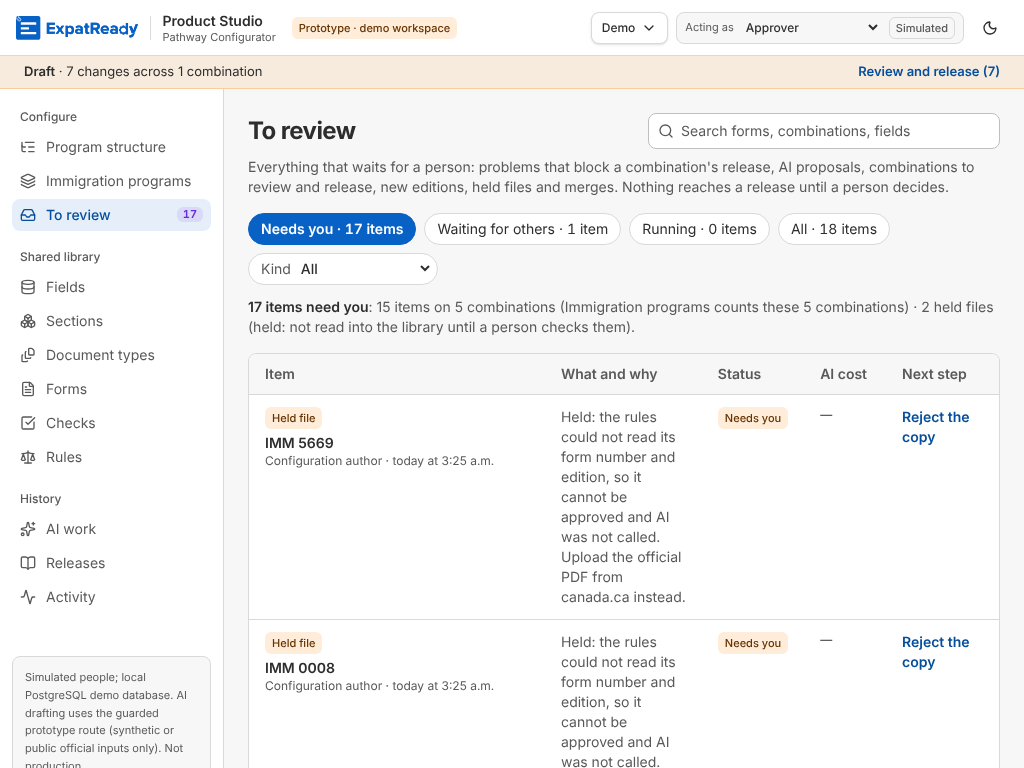
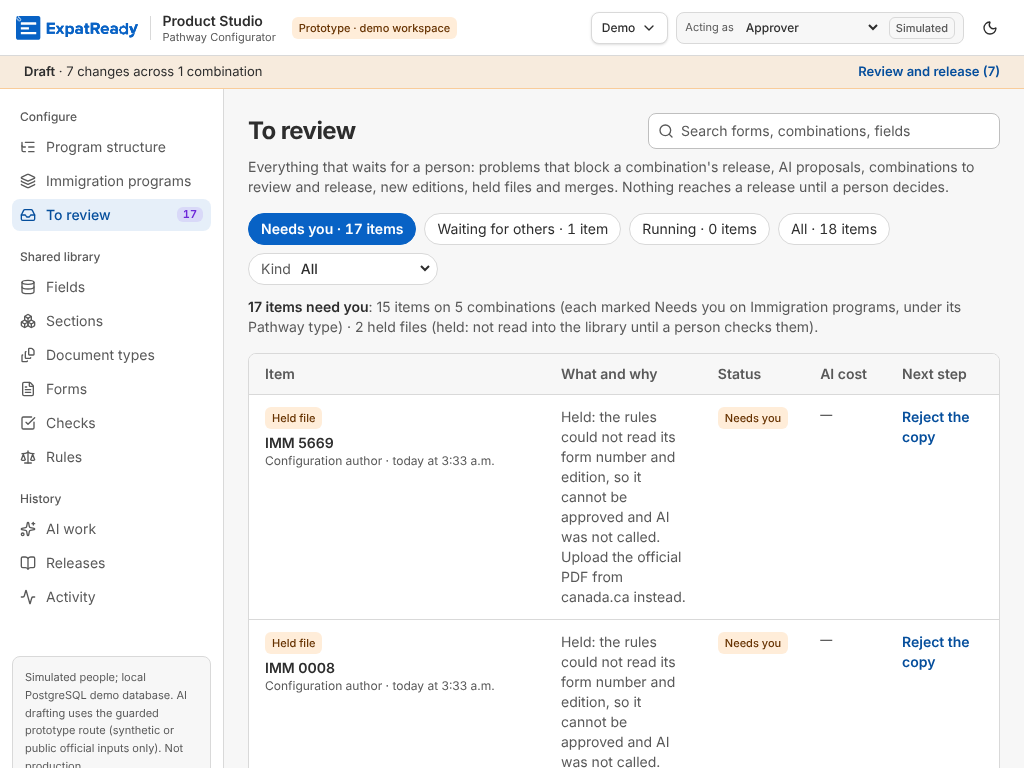
screens QA-179 review m1: the line names no Programs number (its chip counts one Pathway type at a time); the check compares the combinations themselves
The reviewer's m1: "Immigration programs counts these N combinations"
summed both Pathway types while the chip shows one. The line now says
the combinations are each marked Needs you on Immigration programs,
under its Pathway type; the check requires the same set of combinations
on both screens (not only the same sum). Records: review-qa179.md
(Approve on 527d8d5a). check_qa179_needs_words_browser 63/63.

Claude-Session: https://claude.ai/code/session_01MXNda7gyK2jKePNQXi8g6R

Changed region(s): [[0.25, 0.375, 0.9688, 0.4375]]

diff --git a/ai-workers/problem-1-pathway-setup-and-form-filling/prototype/studio/web/src/pages/to-review.tsx b/ai-workers/problem-1-pathway-setup-and-form-filling/prototype/studio/web/src/pages/to-review.tsx
@@ -18,7 +18,8 @@ import { withReturn } from "@/pages/workspace/setup-rail";
 const VIEWS = [["needs", "Needs you"], ["waiting", "Waiting for others"], ["running", "Running"], ["all", "All"]] as const;
 const KIND_TONE: Record<QueueKind, string> = { setup: "warn", proposals: "ai", ai_proposals: "ai", release: "info", library_change: "info", form_fields: "warn", new_edition: "warn", held_file: "warn", merge: "neutral", running: "ai" };
 /** QA-179 (P-288 (1)): To review counts items, Immigration programs counts combinations. One line says how the two
- *  meet: the items on combinations, how many combinations they are (the number Programs shows), and the shared-library
+ *  meet: the items on combinations, how many combinations they are (Programs marks each, its chip counting one Pathway
+ *  type at a time, so the line names no Programs number; review-qa179 m1), and the shared-library
  *  items apart, held files named as held. */
 function NeedsBreakdown({ items }: { items: QueueItem[] }) {
   const onCombos = items.filter((i) => i.combination);
@@ -27,7 +28,7 @@ function NeedsBreakdown({ items }: { items: QueueItem[] }) {
   const library = items.length - onCombos.length - held;
   const n = (k: number, one: string, many: string) => `${k} ${k === 1 ? one : many}`;
   const parts = [
-    onCombos.length ? `${n(onCombos.length, "item", "items")} on ${n(combos, "combination", "combinations")} (Immigration programs counts ${combos === 1 ? "this combination" : `these ${combos} combinations`})` : null,
+    onCombos.length ? `${n(onCombos.length, "item", "items")} on ${n(combos, "combination", "combinations")} (each marked Needs you on Immigration programs, under its Pathway type)` : null,
     held ? `${n(held, "held file", "held files")} (held: not read into the library until a person checks ${held === 1 ? "it" : "them"})` : null,
     library ? `${n(library, "shared library item", "shared library items")}` : null,
   ].filter(Boolean);

diff --git a/ai-workers/problem-1-pathway-setup-and-form-filling/product/screens/UX-A/review-qa179.md b/ai-workers/problem-1-pathway-setup-and-form-filling/product/screens/UX-A/review-qa179.md
@@ -1,0 +1,17 @@
+# QA-179 review (diff def11289..527d8d5a, diff-only, Sonnet P-278)
+
+Ran check_qa179_needs_words_browser on an isolated port (24460): 60/60, exit 0. Stopped after. US$0, no live AI.
+
+## Verdict: Approve (no Blocker, no Major)
+
+## Findings
+- **Minor 1 - the line says "Immigration programs counts these N combinations" across both Pathway types, but the Programs page shows one type at a time.** `mineNeeds` (programs.tsx:243) counts only the rows of the selected type (Retail or Corporate). The check sums INDIVIDUAL and CORPORATE (`programsTotal`), so it cannot catch a split. If someone's N combinations are 3 Retail and 2 Corporate, the line says 5 and the chip says 3. It was true on the demo sample and the six for user-A/B/C. Fix: say "(Immigration programs counts these, per Pathway type)" or add the per-type split, and make the check compare each type's chip with the line's per-type count.
+- **Minor 2 - the line's combinations come from To review's items' `combination`, not from the Programs rule.** Programs counts `forViewer(...).needsYou` (needsYouItems, including kinds listed elsewhere). To review adds `combination` also on proposals, AI-job and release rows. The sets match in the walked data (the check asserts it), but an item with a combination and a different rule (for example a proposal row for a combination Programs does not mark) would make the numbers differ. The check's equality assertion is the guard, which is real, but it covers only the seeded data.
+- **Nit 1** - the line is long and uses "Immigration programs counts these 5 combinations" inside parentheses; fine for an expert, a little heavy. Items with no combination that are not held files are all labelled "shared library items" (form_fields, new_edition, merge, library_change). That fits the kinds present on Needs you today.
+- **Nit 2** - the line is hidden under search/kind/form filters, so the tab count and a filtered list can differ without it. Acceptable (the tab still says items).
+
+## Checked and fine
+- Words 0/1/many: "1 combination needs you", "0 combinations need you", "1 item needs you", "N items need you", "1 held file ... checks it / them" all correct. The line is hidden when there are no items.
+- Accessible names: the chip's text is "N combination(s) need(s) you" (number, then sr-only rest, so it reads whole). The menu badge's aria-label and title say items. axe (WCAG A/AA) clean on both screens; no sideways scroll at 1440, 1024, 400.
+- The check's fail cases are real: they compare the DOM with the server's catalogue and review-queue counts, assert the parts add up to the items, and `^Held: ` on every held row.
+- Held rows now begin "Held:"; four older checks were updated to the words; nothing else in the diff changes behaviour.
